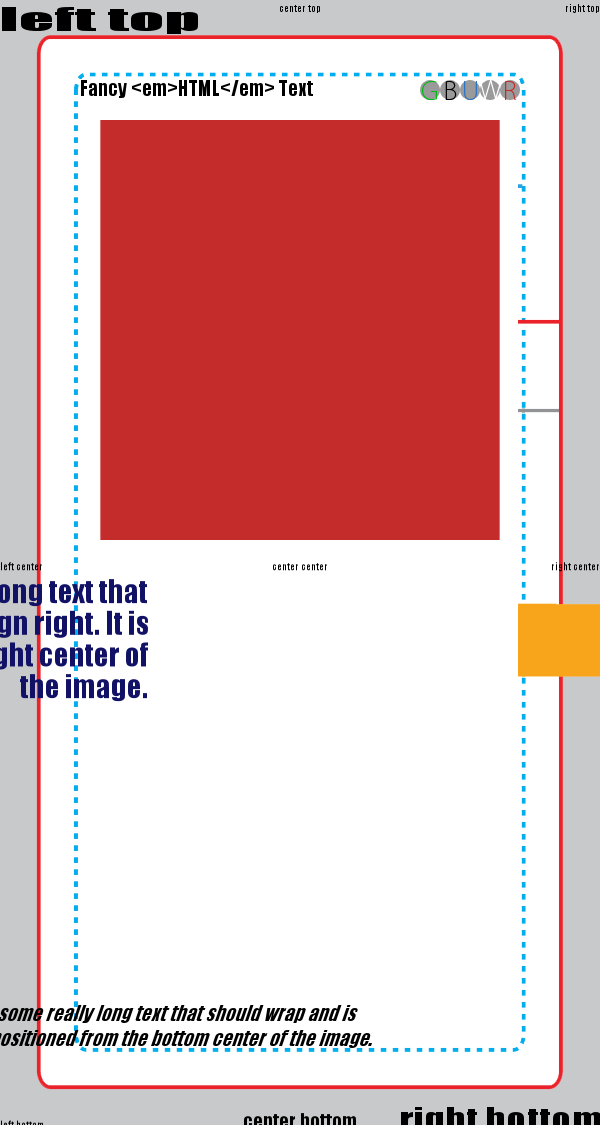
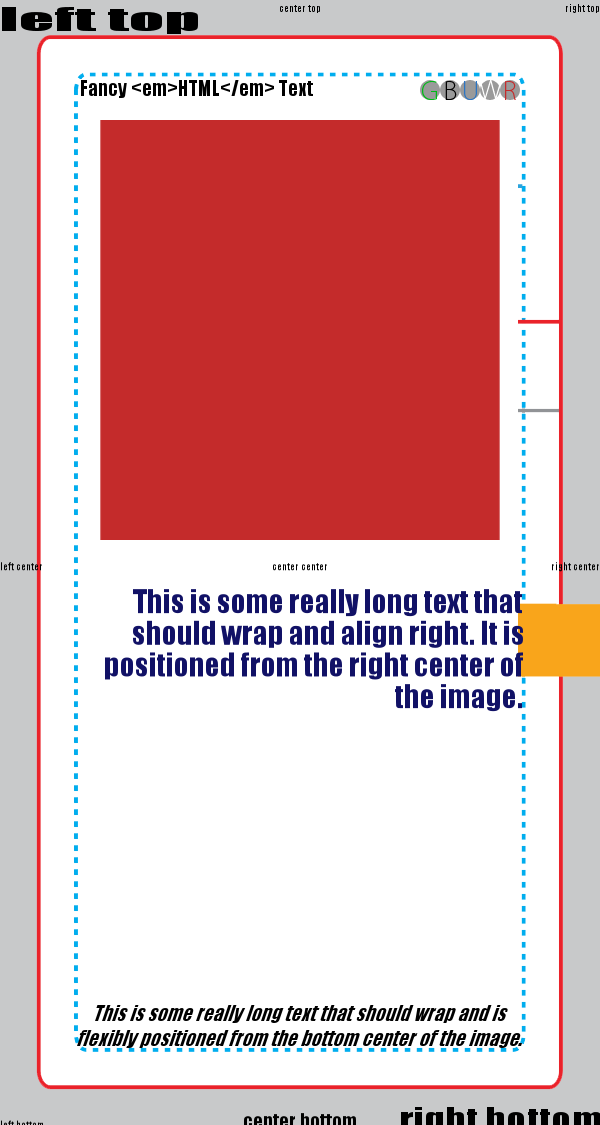
fix csv parsing error and allow more than first item to be run last line of the csv files were being cut off but it went unnoticed because we were also returning after the first item ran each time while debugging.  Oops.  Everything is fine now.

Changed region(s): [[0.0, 0.4978, 0.87, 0.6533], [0.0, 0.8711, 0.87, 0.9333]]

diff --git a/ccgbuilder.js b/ccgbuilder.js
@@ -10,7 +10,7 @@ var Shape = createjs.Shape;
 var Graphics = createjs.Graphics;
 
 var ccgbuilder = {
-   // errorMode "break" skips saving of images with problems, "continue" generates and saves them best as possible, "delete" skips saving and deletes any file with the given item's filename
+   // errorMode "break" skips saving of images with problems, "continue" generates and saves them best as possible even if there are errors, "delete" skips saving and also deletes existing file with the given item's filename
   errorMode: "break",
   layout_items:{},
   merge: function(layout, db) {
@@ -52,24 +52,21 @@ var ccgbuilder = {
     for(i in db) {
       try {
         var res = this.mergeOne(canvas_prop, objects, db[i]);
-        
-        return;
       }
       catch(e) {
         throw e;
-
-        console.log("Error: "+e);
       }
     }
   },
   isBlankStr: function(str) {
     return typeof str === "string" && str.trim() === "";
   },
-  propVal: function(field, item, prop, canvas, graphic) {
+  propVal: function(field, item, prop, canvas, graphic, skipCalc) {
     var val = prop[field];
     
     // check if it's a special val
     if(this.isSpecialVal(val)) {
+      if(skipCalc) return val;
       return this.calcSpecialVal(field, item, prop, canvas, graphic);
     }
     
@@ -424,6 +421,9 @@ var ccgbuilder = {
     // make the text wrap at width
     obj.lineWidth = width;
     
+    var textAlign = this.propVal("textAlign", item, prop, canvas, metrics);
+    obj.textAlign = textAlign;
+    
     // get the measured height
     metrics = {width:width, height:obj.getTransformedBounds().height};
     
@@ -431,39 +431,43 @@ var ccgbuilder = {
     var x = this.propNumVal("x", item, prop, canvas, metrics);
     var y =  this.propNumVal("y", item, prop, canvas, metrics);
     var regX = this.propNumVal("regX", item, prop, canvas, metrics);
+    var preregX = this.propVal("regX", item, prop, canvas, metrics, true);
     var regY =  this.propNumVal("regY", item, prop, canvas, metrics);
+    var preregY =  this.propVal("regY", item, prop, canvas, metrics, true);
     var offsetX = this.propNumVal("offsetX", item, prop, canvas, metrics);
     var offsetY =  this.propNumVal("offsetY", item, prop, canvas, metrics);
     var width = this.propNumVal("width", item, prop, canvas, metrics);
     var rotate = this.propNumVal("rotate", item, prop, canvas, metrics);
     //var options = this.propVal("options", item, prop, canvas, metrics).replace(/ /g, '').toLowerCase().split(",");
     
-    var textAlign = this.propVal("textAlign", item, prop, canvas, metrics);
-    obj.textAlign = textAlign;
+    // text alignment causes its own changes in regX calculation that we need to work around
+    if(textAlign === "center") {
+      console.log("preregx:"+preregX);
+      if(preregX == "left") {
+        //regX = 0;
+      }
+      else if(preregX == "center") {
+        regX = 0;
+      }
+      else if(preregX == "right") {
+       // regX = 0;
+      }
+    }
+    if(textAlign === "right") {
+      console.log("preregx:"+preregX);
+      if(preregX == "left") {
+        regX = -1 * width;
+      }
+      else if(preregX == "center") {
+        regX = -1 * width / 2;
+      }
+      else if(preregX == "right") {
+        regX = 0;
+      }
+    }
     
     obj.regX = regX;
     obj.regY = regY;
-    
-    // if height is empty and regY is special, we'll use our calculated height to do regY
-    // if(prop["height"] === "" && this.isSpecialVal(prop["regY"])) {
-    //   console.log("***** special prop");
-    //   if(prop["regY"] === "top") obj.regY = 0;
-    //   if(prop["regY"] === "center") obj.regY = obj.getTransformedBounds().height/2;
-    //   if(prop["regY"] === "bottom") obj.regY = obj.getTransformedBounds().height;
-    // }
-    // else {
-    //   obj.regY = regY;
-    // }
-    
-    // TODO: if a height is specified, reduce font size and redraw until it fits
-    //var height = this.propNumVal("height", item, prop, canvas, metrics);
-    //var rawHeight = this.propNumVal("height", item, prop, canvas, {width:0,height:0});
-    //if(height) {
-    //  if(obj.getTransformedBounds().height > height) {
-    //    console.log("Warning: text too big for box");
-    //    console.log(obj.getTransformedBounds().height + ">" + height);
-    //  }
-    //}
     
     obj.x = x;
     obj.y = y;
@@ -477,8 +481,8 @@ var ccgbuilder = {
     //obj.scaleY = scaleY * (height / graphic.height);
     //obj.scaleX = scaleX * (width / graphic.width);
 
-    console.log("drawing textbox "+val+" at "+obj.x+","+obj.y);
-    console.log(JSON.stringify({x:x,y:y,regX:regX,regY:regY,offsetX:offsetX,offsetY:offsetY}));
+    //console.log("drawing textbox "+val+" at "+obj.x+","+obj.y);
+    //console.log(JSON.stringify({x:x,y:y,regX:regX,regY:regY,offsetX:offsetX,offsetY:offsetY}));
 
     stage.addChild(obj);
   },
